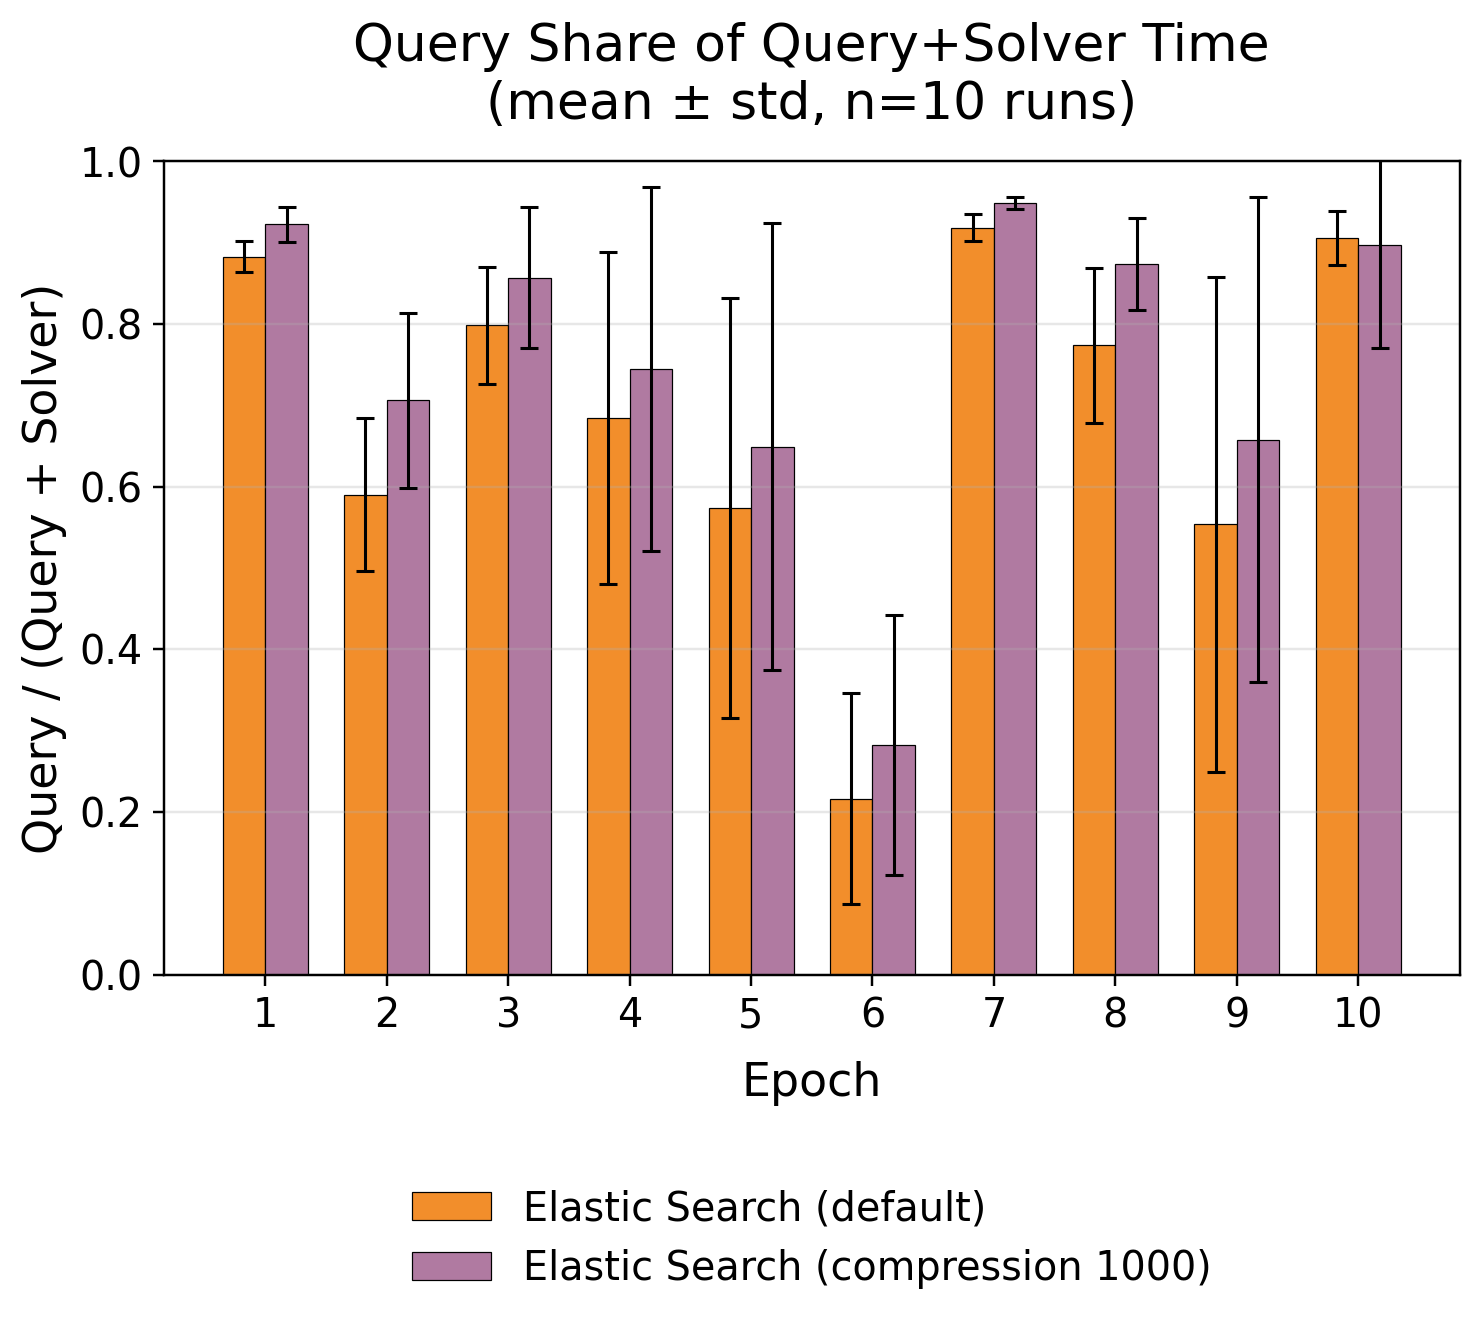
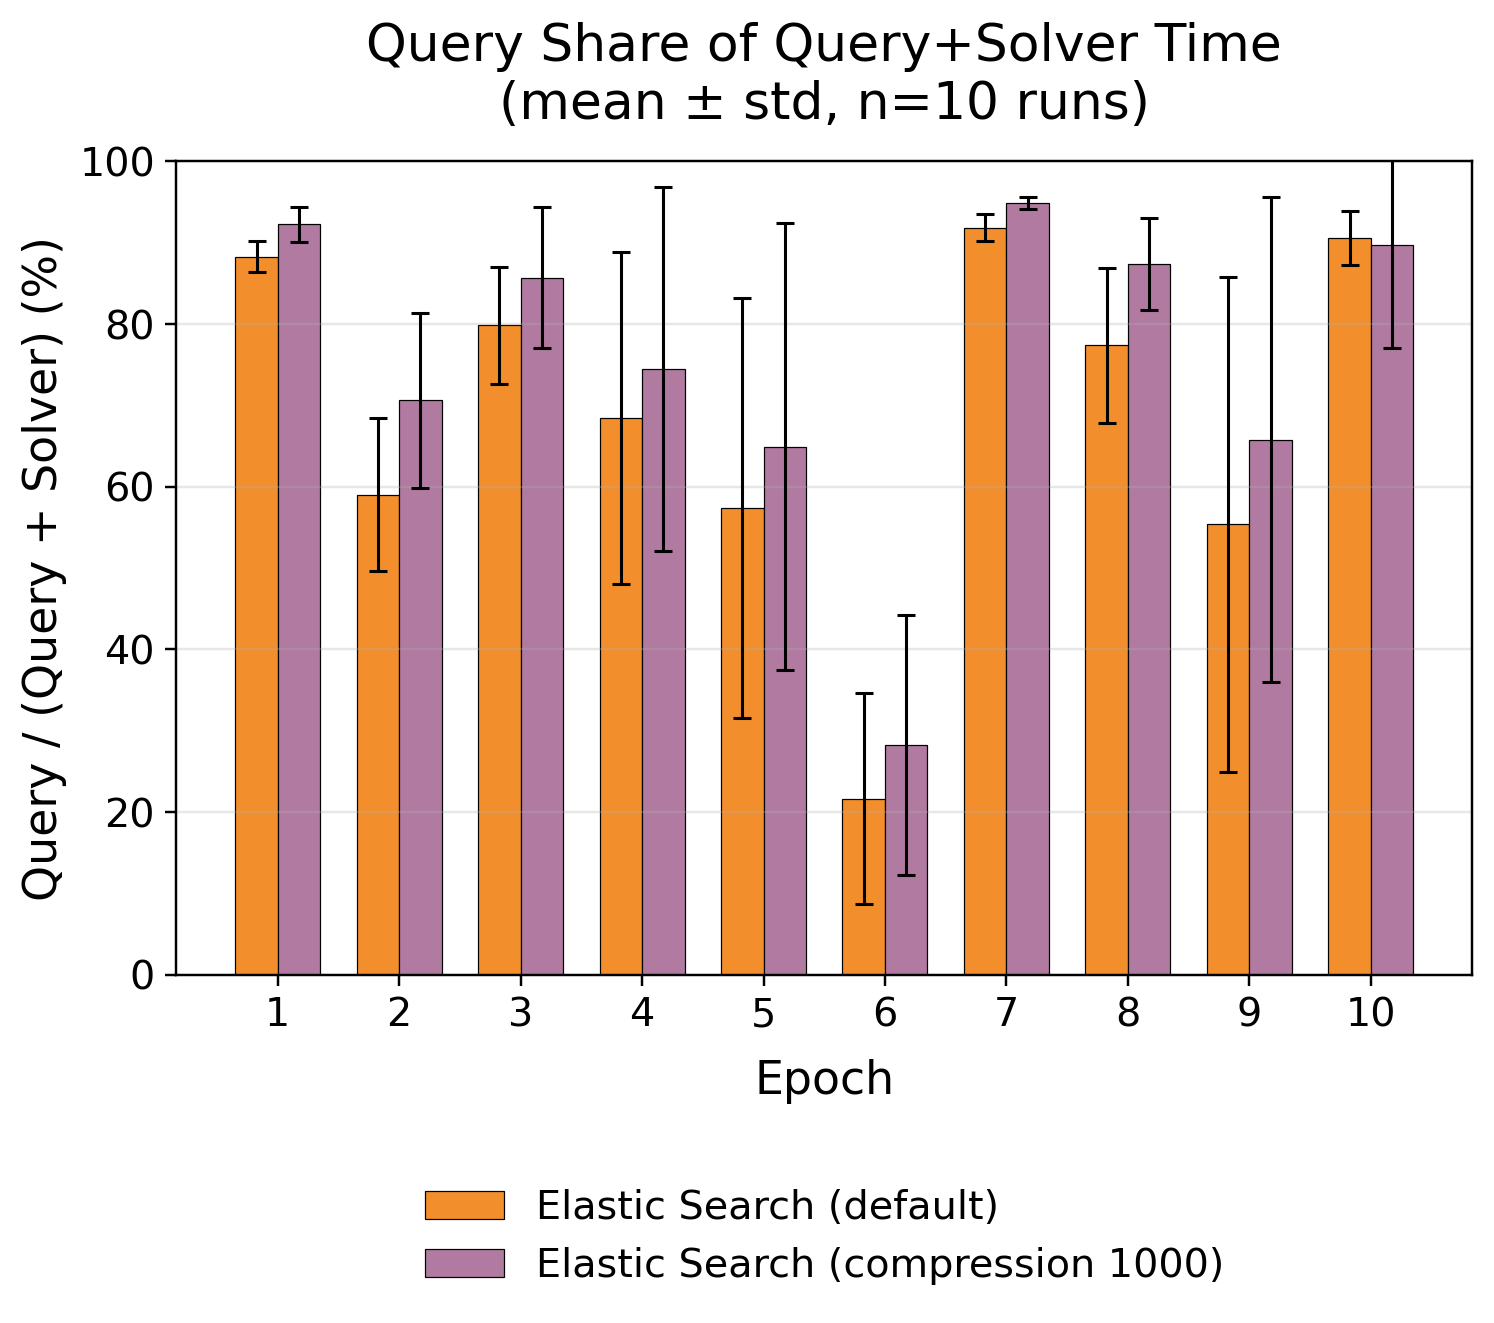
change ratio to percentage

diff --git a/scripts/plot_es_sweep_query_ratio.py b/scripts/plot_es_sweep_query_ratio.py
@@ -60,9 +60,9 @@ def main() -> None:
     q_max = np.array([s["query_max"] for s in sweep])
     s_p50 = np.array([s["solver_p50"] for s in sweep])
 
-    ratio_p50 = q_p50 / (q_p50 + s_p50)
-    ratio_min = q_min / (q_min + s_p50)
-    ratio_max = q_max / (q_max + s_p50)
+    ratio_p50 = q_p50 / (q_p50 + s_p50) * 100
+    ratio_min = q_min / (q_min + s_p50) * 100
+    ratio_max = q_max / (q_max + s_p50) * 100
     err_lo = ratio_p50 - ratio_min
     err_hi = ratio_max - ratio_p50
 
@@ -83,8 +83,8 @@ def main() -> None:
     )
 
     ax.set_xlabel("Rows Ingested", fontsize=LABEL_FS, labelpad=8)
-    ax.set_ylabel("Query / (Query + Solver)", fontsize=LABEL_FS)
-    ax.set_ylim(0, 1)
+    ax.set_ylabel("Query / (Query + Solver) (%)", fontsize=LABEL_FS)
+    ax.set_ylim(0, 100)
     ax.grid(axis="y", alpha=0.3)
     ax.tick_params(axis="both", labelsize=TICK_FS)
     ax.set_title(
@@ -111,7 +111,7 @@ def main() -> None:
     plt.close(fig)
     print(f"Saved: {out}")
     print(f"solver_p50_ms per rows = {[f'{v:.1f}' for v in s_p50]}")
-    print(f"ratios (p50): {[f'{r:.3f}' for r in ratio_p50]}")
+    print(f"ratios (p50, %): {[f'{r:.1f}' for r in ratio_p50]}")
 
 
 if __name__ == "__main__":

diff --git a/scripts/plot_multi_run_query_ratio.py b/scripts/plot_multi_run_query_ratio.py
@@ -55,7 +55,7 @@ def plot_chart(by_epoch, epochs, n_runs, series, out_path: Path) -> None:
         for e in epochs:
             q = np.array(by_epoch[e][f"{prefix}_query_ms"], dtype=float)
             s = np.array(by_epoch[e][f"{prefix}_solver_ms"], dtype=float)
-            ratio = q / (q + s)
+            ratio = q / (q + s) * 100
             ratios_by_epoch.append(ratio)
         mean = np.array([r.mean() for r in ratios_by_epoch])
         std = np.array(
@@ -64,8 +64,8 @@ def plot_chart(by_epoch, epochs, n_runs, series, out_path: Path) -> None:
         _bar_with_err(ax, x + off, mean, std, label, color, bar_w)
 
     ax.set_xlabel("Epoch", fontsize=LABEL_FS, labelpad=8)
-    ax.set_ylabel("Query / (Query + Solver)", fontsize=LABEL_FS)
-    ax.set_ylim(0, 1)
+    ax.set_ylabel("Query / (Query + Solver) (%)", fontsize=LABEL_FS)
+    ax.set_ylim(0, 100)
     ax.grid(axis="y", alpha=0.3, which="major")
     ax.tick_params(axis="both", labelsize=TICK_FS)
     ax.set_title(
